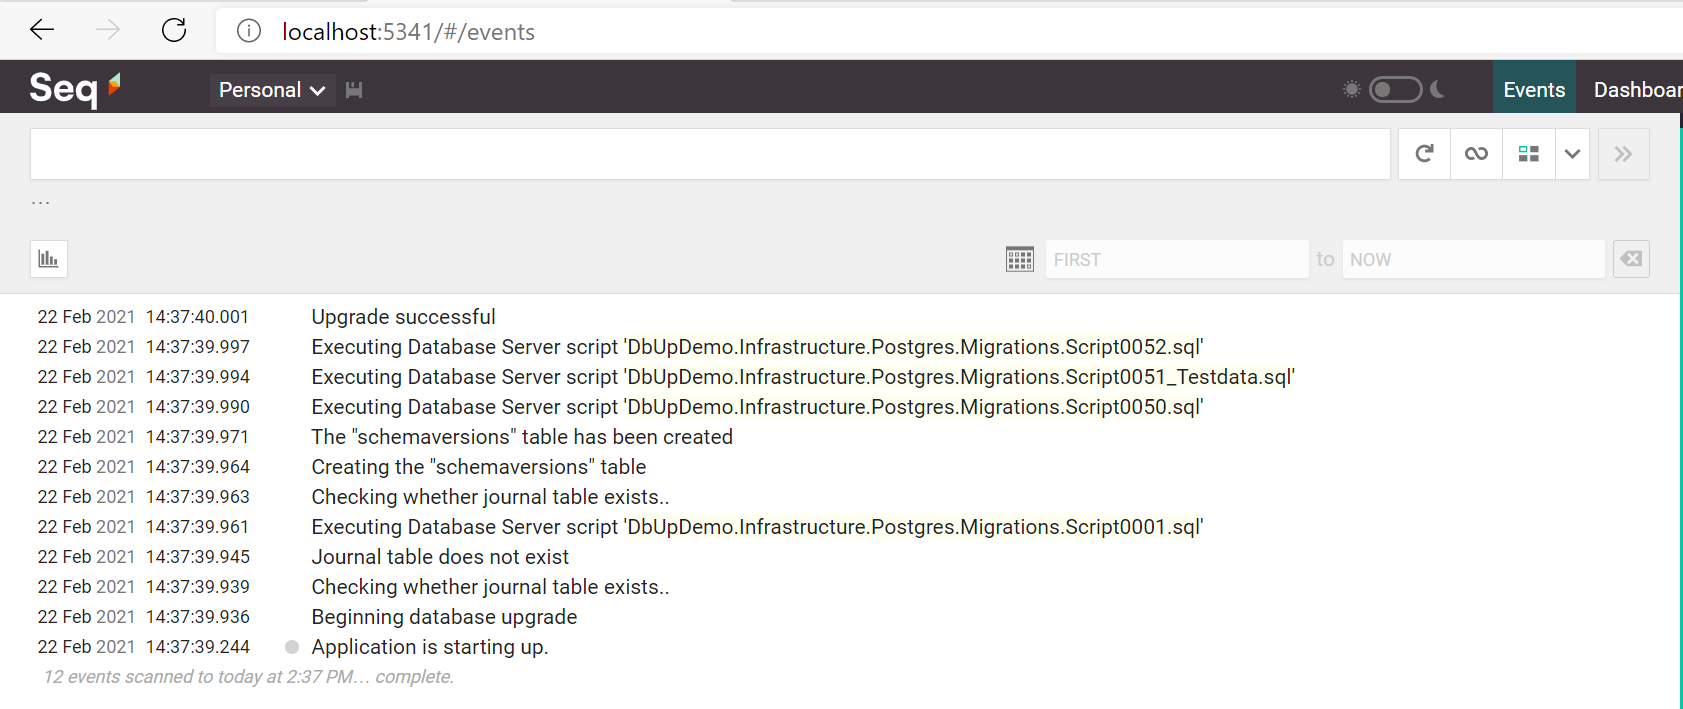
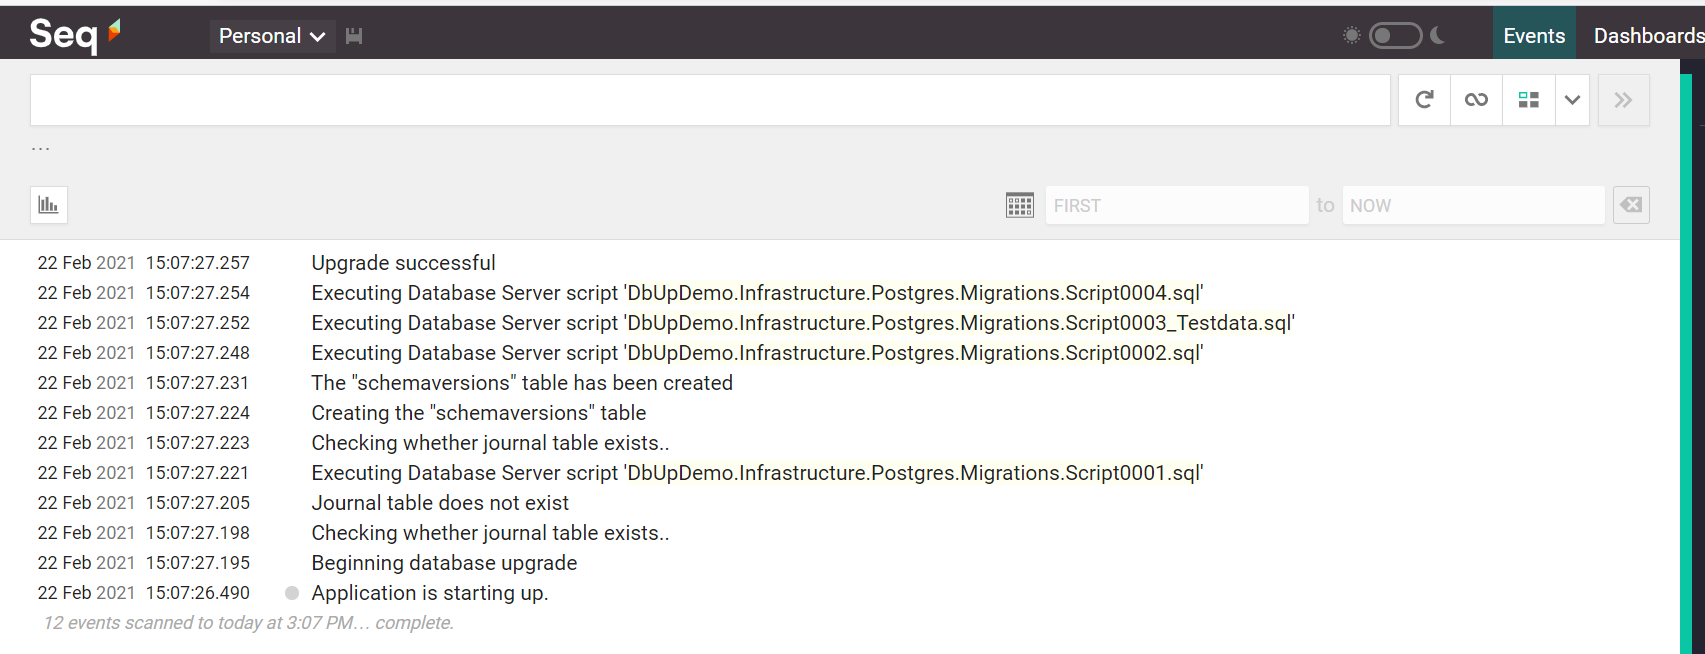
Feature/readme (#3)

diff --git a/README.md b/README.md
@@ -3,3 +3,61 @@ DbUp is a .NET library that helps you deploy changes to SQL Server database. It 
 
 ## Getting Started
 Clone the repo and cd into the Docker directory with the .developer area. Issue `docker-compose up`, this will pull the required images and start up the configured services. At this point you should be able to connect to the PostgreSQL database using your RDBMS client of choice, I've used [JetBrains' DataGrip](https://www.jetbrains.com/datagrip/) which is part of my licence.
+
+![pulling the required images](.doc/docker-compose_up_pulling.png)
+
+Once the images have been pulled, then new containers will be created based on those images following the instructions in the docker-compose.yml file.
+
+![starting the infrastructure](.doc/docker-compose_up_started.png)
+
+At this point it will be possible to connect to the PostgreSQL database which has been created and is hosted on port 5432. You will also be able to navigate to [http://localhost:5341](seq). I've included some instructions as to how you can connect to PostgreSQL using [JetBrains' DataGrip](https://www.jetbrains.com/datagrip/), if you are using a different tool, please refer to it's help.
+
+First step is to add a new PostgreSQL Data Source which you can find via the + icon in the Database pane.
+![adding the database connection](.doc/datagrip_add_database_connection.png)
+
+Using the username, password, and database values from the docker-compose.yml file, you can configure the data source, and click the "Test Connection" to ensure that the details are correct. Once done, click the OK button.
+![specifying the database connection details](.doc/datagrip_add_database_connection_details.png)
+
+Our database doesn't have any interesting data in it yet though, for that we need to start the application. Run the solution with web project as the start up project. Take a look at the output in [http://localhost:5341](seq). Note that the application has started up and located four scripts.
+![seq first run output](.doc/seq_first_run_output.png)
+
+- Script0001.sql configures the base schema, along with initial tables
+- Script0002.sql inserts some base data
+- Script0003_Testdata.sql inserts some base data which is for test environments
+- Script0004.sql inserts some additional data
+
+Notice how the scripts executed are naturally sortable and are processed in that order. Let's take a look and see what's in the database. To do that we need to configure some more options in DataGrip. First we need to opt into seeing our dbupdemo schema, this is done via the "Manage Shown Schemas..." Database Tool.
+![datagrip configure shown schemas](.doc/datagrip_manage_shown_schemas.png)
+![datagrip specify the new schema](.doc/datagrip_add_dbupdemo.png)
+
+Once that is done, you may need to refresh your Database pane, we can then create a new Query Console.
+![datagrip create new query console](.doc/datagrip_new_query_console.png)
+
+This allows us to query the table we've created and see that data that has been created.
+![datagrip initial data](.doc/datagrip_initial_data.png)
+
+If you query the schemaversions table from the public schema, you will see which scripts were run and when.
+![datagrip initial schema versions](.doc/datagrip_initial_schema_versions.png)
+
+But there is a problem, we have a typo in our data, the `Sixtth Interesting Thing` is misspelt. Let's correct that.
+
+## Evolving the data
+From this setup, we can see that there are several important pieces of information to take away.
+
+- The scripts are applied one after the other based on their naturally sorted order
+- The public.schemaversions table is consulted upon application start up and any script which has not been executed will be executed
+
+Because the public.schemaversions table maintains a log of which scripts have been executed, it is **very** important that the scripts be considered [immutable](https://dictionary.cambridge.org/dictionary/english/immutable) so that we have a consistent deployment mechanism of the baseline dataset. If we were to simple open the `Script_0004.sql` file and amend it, then environments which had not received that file would receive the fixed version, but other environments would be left with `Sixtth...` as the public.schemaversions table will have recorded the fact that that script has been executed.
+
+To fix this, we must add another scripts to our solution. To ensure they are run in the correct order, we need to:
+
+- Add `Script_0005.sql` alongside the other scripts
+- Mark it as an embedded resource (so DbUp can locate it)
+- Perform the necessary update
+
+Feel free to try this and run the application again in order to check that the appropriate change has been made. Feel free to compare with the `feature/add-script-5` branch in the github repo.
+
+## Behind the curtain
+Within the DbUpDemo.Infrastructure.Postgres project you should find a `Migrations` folder containing the `Scaffold.cs` file. This includes a class which is called during application startup. This class determins where to find scripts and which should be considered for execution. As we have a need to have some scripts excluded from production environments, we have specified a filter which will inspect each Embedded Resource name and only allow the correct ones through for certain environments. This includes an example as to how that can be done, specifics that fit with your needs can be applied.
+
+The other important thing to consider is how to manage multiple application starting up _at the same time_. PostgreSQL does have a feature called [advisory locks](https://vladmihalcea.com/how-do-postgresql-advisory-locks-work/) which look promising in this area. Consult with our database experts and agree a way forward which they are comfortable with. I have applied `pg_advisory_xact_lock` in this example application.
